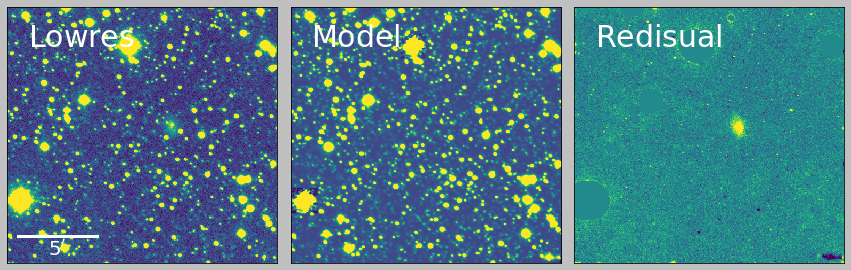
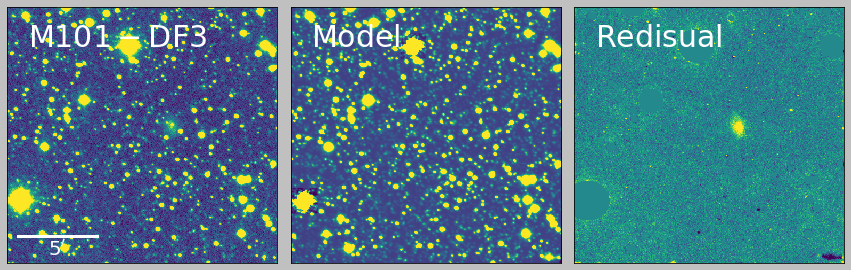
upload demos

diff --git a/mrf/task.py b/mrf/task.py
@@ -260,7 +260,7 @@ class MrfTask():
                                         int(f_magnify * config.kernel.kernel_size), 
                                         int(f_magnify * (config.kernel.kernel_size - config.kernel.kernel_edge)), 
                                         frac_maxflux=config.kernel.frac_maxflux, 
-                                        show_figure=config.kernel.show_fig, cval=0.0,
+                                        show_figure=config.kernel.show_fig,
                                         nkernels=config.kernel.nkernel, logger=logger)
         # You can also circularize the kernel
         if config.kernel.circularize:

diff --git a/docs/source/tutorial/mrf.rst b/docs/source/tutorial/mrf.rst
@@ -1,7 +1,73 @@
-Examples
---------
+Tutorials
+---------
+This page shows the applications of MRF on various objects. You can download the data and implement MRF by yourself. 
 
-This example shows the tidal feature of NGC 5907, described in `van Dokkum et al. (2019) <https://ui.adsabs.harvard.edu/abs/2019arXiv190611260V/abstract>`_ . The images presented there just used this algorithm. Full resolution Dragonfly images and MRF results can be found `here <https://www.pietervandokkum.com/ngc5907>`_. Check `this notebook <https://github.com/AstroJacobLi/mrf/blob/master/examples/mrfTask-n5907.ipynb>`_ for more details in how to do MRF using this Python package!
+NGC 5907
+^^^^^^^^^
+NGC 5907 is a edge-on spiral galaxy, which is famous for its prominent tidal streams. Recently the images taken by Dragonfly Telephoto Array reveal more details about the low surface brightness features around this galaxy (`van Dokkum et al. 2019 <https://ui.adsabs.harvard.edu/abs/2019arXiv190611260V/abstract>`_). In this paper, we isolate diffuse low surface brightness streams using "Muilt-Resolution Filtering" (MRF). Now we show how to do it using Python package ``mrf``. Check `this notebook <https://github.com/AstroJacobLi/mrf/blob/master/examples/mrfTask-n5907.ipynb>`_ for the whole process of MRF using this Python package. Below I briefly show the key steps.
+
+Full resolution Dragonfly images and MRF results can be found `here <https://www.pietervandokkum.com/ngc5907>`_. The corresponding CFHT images can be found on `Canadian Astronomy Data Center <http://www.cadc-ccda.hia-iha.nrc-cnrc.gc.ca/en/search/?collection=CFHTMEGAPIPE&noexec=true#queryFormTab>`_. Besides, ``mrf`` provides functions to download high-resolution images (including `CFHT <https://www.cfht.hawaii.edu>`_ and `HSC <https://hsc.mtk.nao.ac.jp>`_), shown as follows:
+
+.. code-block:: python
+
+    # Position of NGC 5907
+    ra, dec = 228.974042, 56.328771
+
+    # Notice: the images might be very large (several Gb)!
+    from mrf import download
+    download.download_highres('n5907_df_g.fits', high_res='cfht', band='g')
+    download.download_highres('n5907_df_r.fits', high_res='cfht', band='r')
+    # CFHT images will be saved as "CFHT_megapipe_img_G.fits" 
+    # and "CFHT_megapipe_img_R.fits".
+
+After downloading high-resolution images, you need to bin it by a :math:`2\times2` pixel box and convolve with a :math:`\sigma=1` pixel Gaussian kernel to mitigate projection errors. 
+
+.. code-block:: python
+
+    from mrf.celestial import Celestial
+    from astropy.convolution import convolve, Gaussian2DKernel
+    hdu = fits.open('CFHT_megapipe_img_G.fits')
+    cfht = Celestial(hdu[0].data, header=hdu[0].header)
+    hdu.close()
+    cfht.resize_image(0.5) # bin with 2*2 box
+    cfht.image = convolve(cfht.image, Gaussian2DKernel(1))
+    cfht.save_to_fits('ngc5907_cfht_g.fits')
+    # Then do the same for R-band image
+
+The main part of MRF can be simply done by the following code. A configuration YAML file is needed to provide parameters for relevant functions such as SExtractor (``sep``). Check `here <https://github.com/AstroJacobLi/mrf/blob/master/examples/ngc5907-task.yaml>`_ for more explanation on configuration file. If you want to retain certain galaxies during MRF, make an ASCII catalog which contains the ``RA`` and ``DEC`` of galaxies (see `gal_cat_n5907.txt <https://github.com/AstroJacobLi/mrf/blob/master/examples/gal_cat_n5907.txt>`_ for an example). If you don't want to reserve any galaxy, just leave ``certain_gal_cat = None``.
+
+.. code-block:: python
+
+    from mrf.task import MrfTask
+    task = MrfTask('ngc5907-task.yaml')
+    img_lowres = 'n5907_df_g.fits'
+    img_hires_b = 'ngc5907_cfht_g.fits'
+    img_hires_r = 'ngc5907_cfht_r.fits'
+    certain_gal_cat = 'gal_cat_n5907.txt'
+    results = task.run(
+        img_lowres, img_hires_b, img_hires_r, certain_gal_cat, 
+        output_name='n5907', verbose=True)
+
+``results`` has many attributes including the MRF results ``results.lowres_final``, the models ``results.lowres_model``, the convolution kernel ``results.kernel_med``, the stacked PSF ``results.PSF``, etc.
+
+.. code-block:: python
+
+    import matplotlib.pyplot as plt
+    fig, [ax1, ax2, ax3] = plt.subplots(1, 3, figsize=(15, 8))
+
+    ax1 = display_single(results.lowres_input.image, ax=ax1, 
+        pixel_scale=2.5, scale_bar_length=300, scale_bar_y_offset=0.3,
+        add_text='NGC\, 5907', text_y_offset=0.65)
+
+    ax2 = display_single(results.lowres_model.image, ax=ax2, 
+        scale_bar=False, add_text='Model', text_y_offset=0.65)
+
+    ax3 = display_single(results.lowres_final.image, ax=ax3, 
+        scale_bar=False, add_text='Redisual', text_y_offset=0.65)
+
+    plt.subplots_adjust(wspace=0.05)
+    plt.savefig('n5907-demo.png', bbox_inches='tight', facecolor='silver')
+    plt.show()
 
 .. figure:: https://github.com/AstroJacobLi/mrf/raw/master/examples/n5907-demo.png
     :width: 1000px
@@ -9,8 +75,11 @@ This example shows the tidal feature of NGC 5907, described in `van Dokkum et al
     :alt: alternate text
     :figclass: align-center
 
+M101-DF3
+^^^^^^^^^
+M101-DF3 is a satellite galaxy of the famous spiral galaxy M101, presented in `Merritt, van Dokkum, & Abraham 2014 <https://iopscience.iop.org/article/10.1088/2041-8205/787/2/L37/meta>`_. It has an effective surface brightness :math:`\mu_g=27.4\pm0.2` and effective radius :math:`r_e=30\pm 3` arcsec. 
 
-The next example shows how powerful MRF is in extracting low surface brightness features. The ultra-diffuse galaxy M101-DF3 is revealed by MRF after subtracting compact objects and bright star halos according to `van Dokkum et al. (in prep) <https://www.pietervandokkum.com>`_ . Check `this notebook <https://github.com/AstroJacobLi/mrf/blob/master/examples/mrfTask-m101df3.ipynb>`_ for more details.
+In this example, the dwarf galaxy M101-DF3 is revealed clearly by MRF after subtracting compact objects and bright star halos according to `van Dokkum et al. (in prep) <https://www.pietervandokkum.com>`_ . The basic procedures are the same as NGC 5907 example. Check `this notebook <https://github.com/AstroJacobLi/mrf/blob/master/examples/mrfTask-m101df3.ipynb>`_ for more details. 
 
 .. figure:: https://github.com/AstroJacobLi/mrf/raw/master/examples/m101-df3-demo.png
     :width: 1000px
@@ -18,7 +87,31 @@ The next example shows how powerful MRF is in extracting low surface brightness 
     :alt: alternate text
     :figclass: align-center
 
+After having ``results``, you can show the flux model, kernels and PSF as follows. 
 
+.. code-block:: python
+    fig, [ax1, ax2] = plt.subplots(1, 2, figsize=(15, 8))
+    ax1 = display_single(results.lowres_input.image, ax=ax1, 
+                         scale_bar=False, add_text='Kernel')
+    ax2 = display_single(results.hires_fluxmod, ax=ax2, 
+                         scale='percentile', lower_percentile=0.5,
+                         scale_bar=False, add_text='FLux\,Model')
+    plt.show()
+
+
+.. figure:: https://github.com/AstroJacobLi/mrf/raw/master/examples/m101-df3-fluxmodel.png
+    :width: 1000px
+    :align: center
+    :alt: alternate text
+    :figclass: align-center
+
+.. figure:: https://github.com/AstroJacobLi/mrf/raw/master/examples/m101-df3-kernel-psf.png
+    :width: 1000px
+    :align: center
+    :alt: alternate text
+    :figclass: align-center
+
+    
 You can also use `this script <https://github.com/AstroJacobLi/mrf/blob/master/examples/mrf-task.py>`_ to run the MRF task. Take NGC 5907 as an example:
 
 .. code-block:: python
